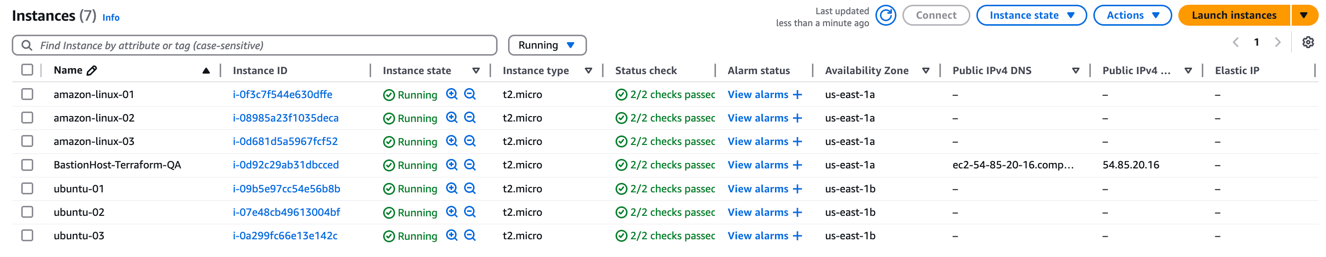
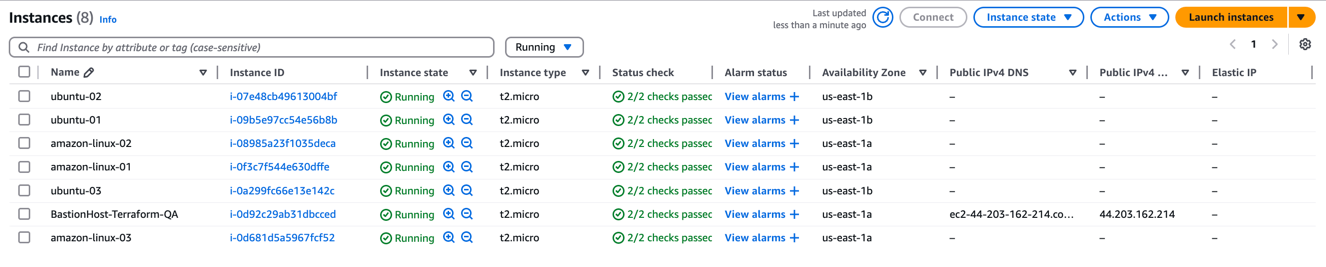
Completed README and added disk usage report for bastion

diff --git a/README.md b/README.md
@@ -120,18 +120,58 @@ Add the key in the root directory into SSH agent:
 ```
 % ssh-add ami-key-pair.pem
 ```
-SSH into the bastion host with agent forwarding:
+Test by SSH into the bastion host with agent forwarding:
 ```
 % ssh -A -i ami-key-pair.pem ec2-user@[your-bastion-host-public-ipv4-dns]
 ```
-Once you are inside the bastion host, SSH into your custom ec2 instance in the private subnet
+Once you are inside the bastion host, SSH into ec2 instances in the private subnet by
 ```
-% ssh ec2-user@[your-custom-ec2-private-ipv4-dns]
+% ssh ec2-user@[your-custom-ec2-private-ipv4-dns] // for amazon linux machines
+% ssh ubuntu@[your-custom-ec2-private-ipv4-dns] //   for ubuntu machines
 ```
 Example output:
-![img_17.png](./screenshots/img_17.png)
+![img_17.png](./screenshots/img_1.png)
 
-In ec2.tf, no statement associates the key-pair with the ec2 instance. However, you can still use the private key file to ssh into this EC2 as the public key has been pre-configured in the custom AMI, and thus was pre-set in the ec2
+### Manage Configurations using Ansible
+Install ansible on your local machine:
+```
+% brew update
+% brew install ansible
+```
+Run the following commands to check inventories:
+```
+% ansible-inventory -i aws_ec2.yml --graph
+# Or to get detailed information
+# % ansible-inventory -i aws_ec2.yml --list
+```
+Example output:
 
-Run some docker commands to verify docker is ready to use:
-![img_18.png](./screenshots/img_18.png)
+![img_4.png](./screenshots/img_4.png)
+
+Run the following command to perform update, upgrade, running docker newest version, and report disk usage task:
+```
+% ansible-playbook -i aws_ec2.yml playbook.yml
+```
+Output of "Update and upgrade the packages" and "Verify we are running the latest docker" for Ubuntu :
+![img_5.png](./screenshots/img_5.png)
+![img_6.png](./screenshots/img_6.png)
+![img_7.png](./screenshots/img_7.png)
+
+Output of "Update and upgrade the packages" and "Verify we are running the latest docker" for Amazon Linux:
+![img_8.png](./screenshots/img_8.png)
+![img_9.png](./screenshots/img_9.png)
+![img_10.png](./screenshots/img_10.png)
+
+Output of reporting the disk usage for each server node in private subnet:
+![img_12.png](./screenshots/img_12.png)
+![img_13.png](./screenshots/img_13.png)
+![img_14.png](./screenshots/img_14.png)
+![img_15.png](./screenshots/img_15.png)
+
+Output of reporting the disk usage for bastion host in public subnet:
+![img_11.png](./screenshots/img_11.png)
+
+Output of Play Recap:
+![img_16.png](./screenshots/img_16.png)
+
+
